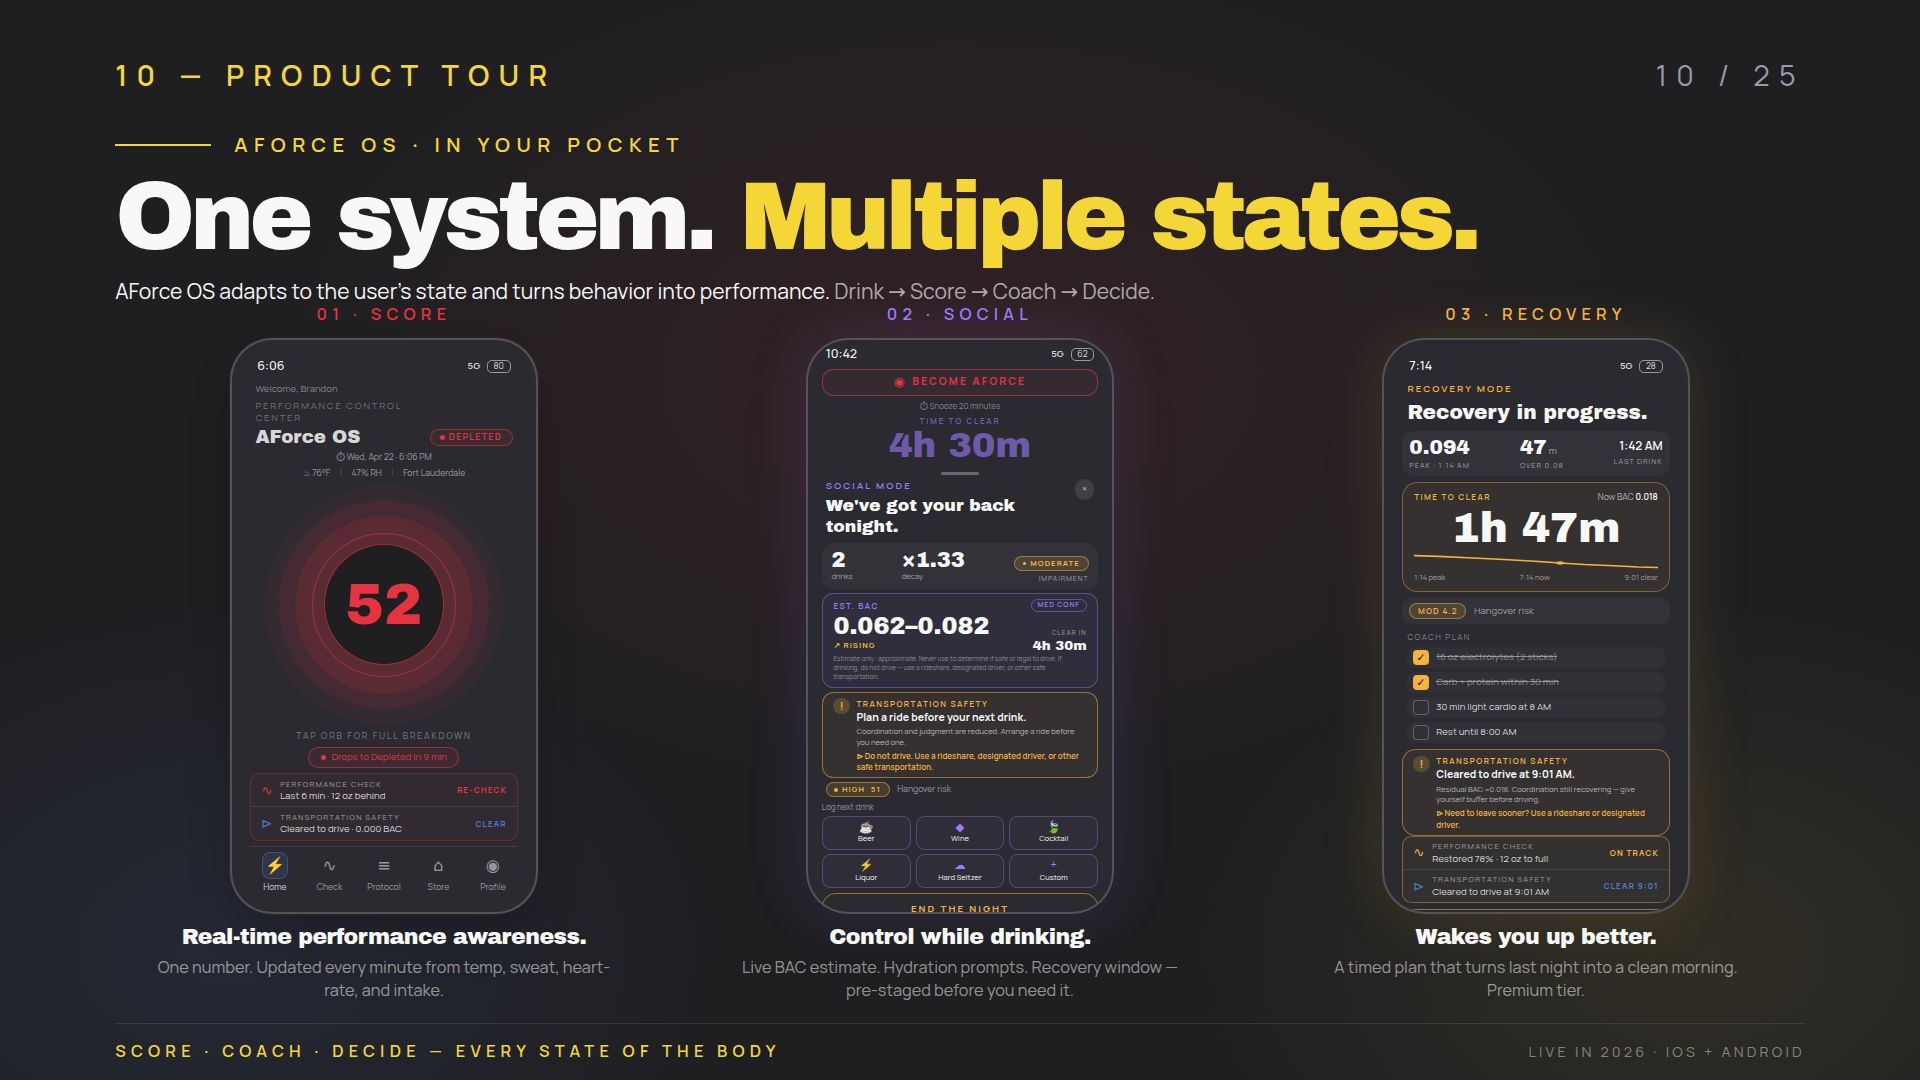
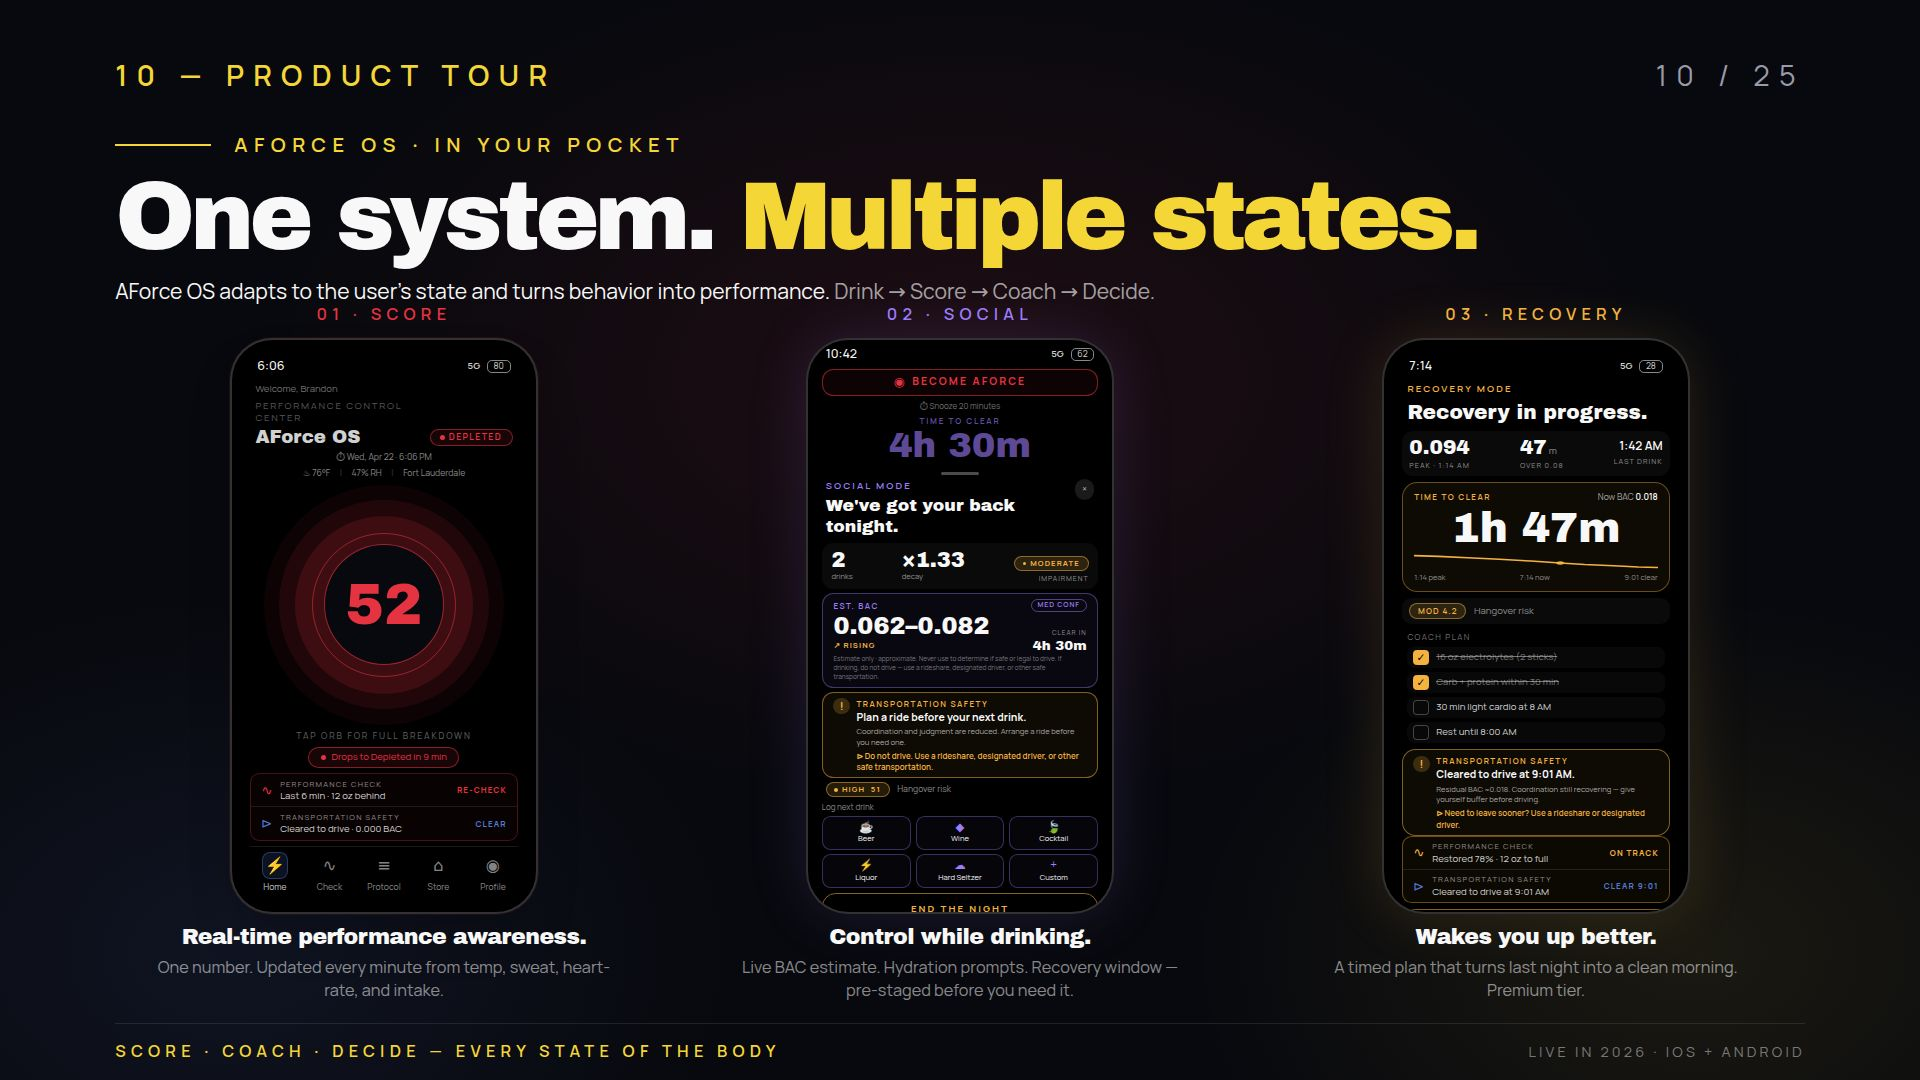
Make all phone screens on slide 10 pure black
Update the background color of all phone mockups on slide 10 to black in `ProductTour.tsx`.

Replit-Commit-Author: Agent
Replit-Commit-Session-Id: 735f25c4-ed8e-4817-8f79-73dd845c27a6
Replit-Commit-Checkpoint-Type: full_checkpoint
Replit-Commit-Event-Id: 188e2e94-f1c1-4f9b-972c-cdb22aa6d614
Replit-Commit-Screenshot-Url: https://storage.googleapis.com/screenshot-production-us-central1/745ad57f-0f0d-4501-8ad0-cf0ad11b0793/735f25c4-ed8e-4817-8f79-73dd845c27a6/Y70EipV
Replit-Helium-Checkpoint-Created: true

diff --git a/artifacts/aforce-pitch/src/pages/slides/ProductTour.tsx b/artifacts/aforce-pitch/src/pages/slides/ProductTour.tsx
@@ -39,7 +39,7 @@ export default function ProductTour() {
         {/* PHONE 1 — HYDRATION SCORE */}
         <div className="flex flex-col items-center">
           <div className="font-body uppercase tracking-[0.32em] text-[0.85vw] text-primary font-semibold mb-[1vh]">01 · Score</div>
-          <div className="w-[16vw] h-[30vw] bg-bg-elev rounded-[2.2vw] border-2 border-text/20 overflow-hidden p-[0.9vw] flex flex-col shadow-2xl ring-1 ring-primary/10">
+          <div className="w-[16vw] h-[30vw] bg-black rounded-[2.2vw] border-2 border-text/20 overflow-hidden p-[0.9vw] flex flex-col shadow-2xl ring-1 ring-primary/10">
             <div className="flex justify-between items-center px-[0.4vw] mb-[0.6vh]">
               <span className="font-body text-[0.65vw] text-text font-medium">6:06</span>
               <div className="flex gap-[0.35vw] items-center">
@@ -133,7 +133,7 @@ export default function ProductTour() {
         {/* PHONE 2 — SOCIAL MODE */}
         <div className="flex flex-col items-center">
           <div className="font-body uppercase tracking-[0.32em] text-[0.85vw] font-semibold mb-[1vh]" style={{ color: "#9D7CFB" }}>02 · Social</div>
-          <div className="w-[16vw] h-[30vw] bg-bg-elev rounded-[2.2vw] border-2 border-text/20 overflow-hidden flex flex-col shadow-2xl ring-1" style={{ boxShadow: "0 0 60px rgba(157,124,251,0.15)" }}>
+          <div className="w-[16vw] h-[30vw] bg-black rounded-[2.2vw] border-2 border-text/20 overflow-hidden flex flex-col shadow-2xl ring-1" style={{ boxShadow: "0 0 60px rgba(157,124,251,0.15)" }}>
             {/* iOS status bar */}
             <div className="flex justify-between items-center px-[0.9vw] pt-[0.5vh] pb-[0.25vh]">
               <span className="font-body text-[0.65vw] text-text font-medium">10:42</span>
@@ -288,7 +288,7 @@ export default function ProductTour() {
         {/* PHONE 3 — RECOVERY MODE */}
         <div className="flex flex-col items-center">
           <div className="font-body uppercase tracking-[0.32em] text-[0.85vw] font-semibold mb-[1vh]" style={{ color: "#F4B23F" }}>03 · Recovery</div>
-          <div className="w-[16vw] h-[30vw] bg-bg-elev rounded-[2.2vw] border-2 border-text/20 overflow-hidden p-[0.9vw] flex flex-col shadow-2xl ring-1" style={{ boxShadow: "0 0 60px rgba(244,178,63,0.15)" }}>
+          <div className="w-[16vw] h-[30vw] bg-black rounded-[2.2vw] border-2 border-text/20 overflow-hidden p-[0.9vw] flex flex-col shadow-2xl ring-1" style={{ boxShadow: "0 0 60px rgba(244,178,63,0.15)" }}>
             <div className="flex justify-between items-center px-[0.4vw] mb-[0.6vh]">
               <span className="font-body text-[0.65vw] text-text font-medium">7:14</span>
               <div className="flex gap-[0.35vw] items-center">
